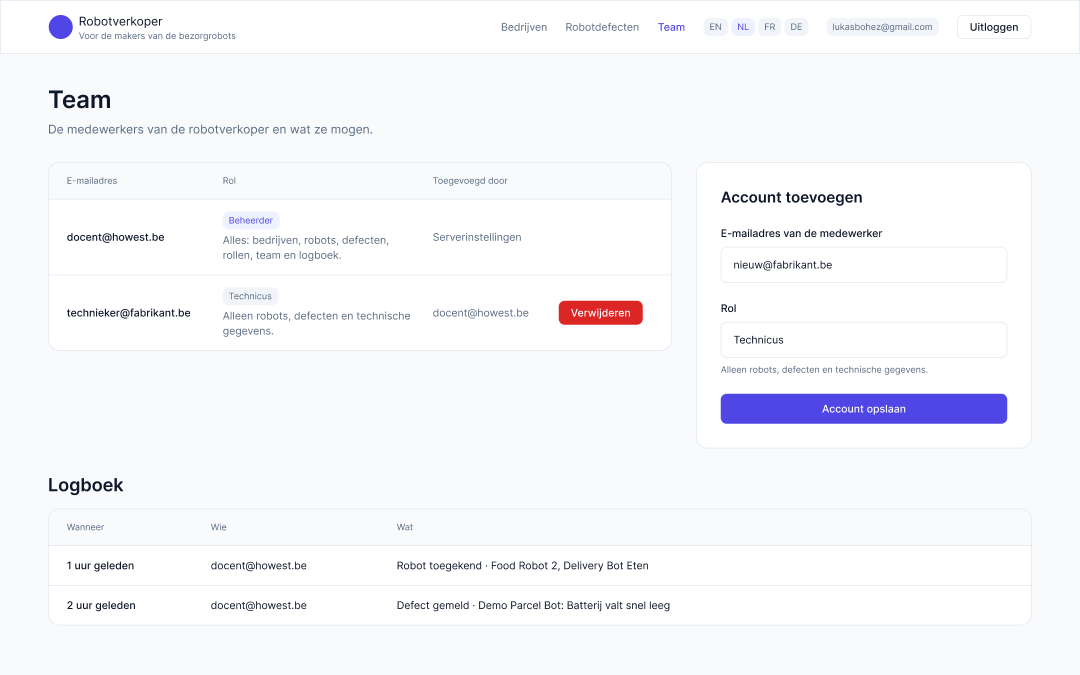
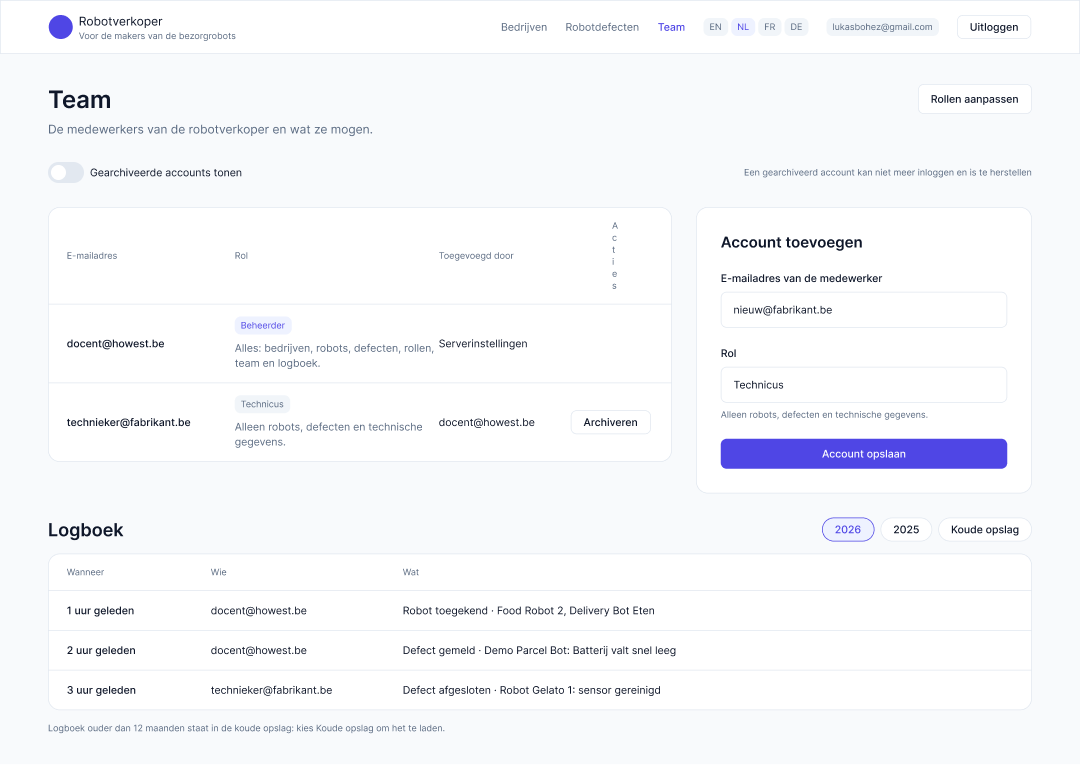
design: screens for the technician (phone) and the administrator (desktop), after the client feedback of 16/10 (#137)
New screens 11 to 23, nine popups, two flows, nine new components; screens 02, 04, 06, 07 and 09 changed
(logical robot buttons, rights as a table, archive instead of delete, filters per year). The Figma file itself is
saved by hand into Lukas/ afterwards.

diff --git a/design/README.md b/design/README.md
@@ -4,28 +4,68 @@ Het ontwerp is **eerst in Figma gemaakt, daarna pas in code**, zoals de klant vr
 
 **Van wie:** dit ontwerp is van **Lukas** en gaat enkel over zijn deel, het verkopersplatform. Er staan geen schermen van Maciej in en er wordt niets over beweerd ([wie wat doet, bovenaan de README](../../README.md#wie-doet-wat)).
 
-Het bestand heeft drie pagina's: **Inspiratie** (waar het ontwerp op leunt), **Components** (de bouwstenen met varianten) en **Design** (het designsysteem, de flow en alle schermen).
+Het bestand heeft drie pagina's: **Inspiratie** (waar het ontwerp op leunt), **Components** (de bouwstenen met varianten) en **Design** (het designsysteem, de flows en alle schermen).
 
-## De flow
+**Twee gebruikers, twee schermen.** Sinds de feedback van de klant van 16/10/2026 ([#137](https://github.com/afsd-mct/26-ratty-raccoon/issues/137), [`../../docs/klantfeedback-137.md`](../../docs/klantfeedback-137.md)) is het ontwerp opgesplitst naar wie het gebruikt:
+
+| Wie | Waar | Schermen |
+| --- | --- | --- |
+| **De beheerder** (superadmin) | Vooral op een **computer** (1440 px). Op een telefoon kan hij kijken, maar rechten aanpassen doet hij op een computer | 01 tot 16 |
+| **De technicus** | Op een **telefoon** (390 px), onderweg en bij de robot. Eigen dashboard en een eigen flow | 17 tot 23 |
+
+## De flows
 
 ![De flow: een robot aan een bedrijf geven](flow.png)
 
-Elk scherm bestaat voor **desktop (1440 px)** en voor **telefoon (390 px)**. De schermen "Bedrijven" en "Robots" bestaan ook in **donkere modus**.
+![De flow van de technicus](flow-technicus.png)
+
+![De flow van de beheerder](flow-beheerder.png)
+
+Elk scherm bestaat voor **desktop (1440 px)** of voor **telefoon (390 px)**, naargelang wie het gebruikt. De oude schermen (01 tot 10) bestaan voor allebei. De schermen "Bedrijven" en "Robots" bestaan ook in **donkere modus**. De **taalkiezer** (EN, NL, FR, DE) staat in de header, behalve op het inlogscherm: wie niet ingelogd is, ziet geen menu.
 
 ## Schermen
 
 | Nr | Scherm | Wat | Gemaakt in code |
 | --- | --- | --- | --- |
 | 01 | Inloggen | E-mail en wachtwoord, geen Google-login. **Zonder menu, taalkiezer, e-mailbadge en "Uitloggen"**: wie nog niet is ingelogd, mag die niet zien | `seller-pwa/src/views/LoginView.vue` |
-| 02 | Bedrijven | Lijst met robots en defecten per bedrijf, zonder personeel of klantgegevens. Per bedrijf twee knoppen: **Robots openen** (scherm 04) en **Rollen openen** (scherm 06, van daaruit **Bekijken als rol**, scherm 08) | `CompaniesView.vue` |
+| 02 | Bedrijven | Lijst met robots en defecten per bedrijf, zonder personeel of klantgegevens. Per bedrijf **Robots openen**, **Rollen openen** en **Archiveren** (geen verwijderen: soft delete), en een schakelaar voor gearchiveerde bedrijven | `CompaniesView.vue` |
 | 03 | Nieuw bedrijf | Naam, adres en e-mail van de eerste beheerder | `NewCompanyView.vue` |
-| 04 | Robots van een bedrijf | Statusbadge en batterij per robot, robot toekennen (één geïsoleerde etenrobot) | `CompanyRobotsView.vue` |
+| 04 | Robots van een bedrijf | Per robot een status en **logische knoppen**: Details, en wat nu past (Defect melden, of Technieker oproepen). Robot toekennen (één geïsoleerde etenrobot) | `CompanyRobotsView.vue` |
 | 05 | API-sleutel | Eén keer getoond, en vanzelf naar de robot-app gestuurd | `components/ApiKeyDialog.vue` |
-| 06 | Accounts en rollen | Rollen van een bedrijf, zoals kok en lader | `CompanyRolesView.vue` |
-| 07 | Robotdefecten | Defecten zien en een robot vervangen | `DefectsView.vue` |
+| 06 | Rollen en rechten van een bedrijf | **Een tabel**: rechten tegenover rollen (Kok, Lader, Ober), met Bekijken als rol, Kopiëren en Preset toepassen | `CompanyRolesView.vue` |
+| 07 | Robotdefecten | Alle defecten met status, lading en filters per jaar; een robot vervangen | `DefectsView.vue` |
 | 08 | Bekijken als rol | Zien wat een rol ziet, zonder iets te kunnen wijzigen | `RolePreviewView.vue` |
-| 09 | Team | Eigen medewerkers met rol Beheerder of Technicus, en het logboek | `TeamView.vue` |
+| 09 | Team | Eigen medewerkers met hun rol; **Archiveren** in plaats van verwijderen; Rollen aanpassen; logboek per jaar | `TeamView.vue` |
 | 10 | Defect melden | Een defect van een robot melden | `components/ReportDefectDialog.vue` |
+| 11 | Robot | Alles over één robot: toestand (gekanteld, batterij, klep, temperatuur, verbinding, foutcode), lading, geschiedenis, **acties** (Technieker oproepen, Vervangen met QR, Defect sluiten, QR-code tonen, Uit dienst nemen) | `RobotView.vue` |
+| 12 | Defect (beheerder) | Wat is er mis, **alle info voor de technieker**, wie komt er, locatie, verloop en **andere defecten in de buurt** | `DefectDetailView.vue` |
+| 13 | Rollen en rechten van het team | **Tabel van rechten per rol**, met extra rechten (claims), de talen van elke rol en niet-opgeslagen wijzigingen | `TeamRolesView.vue` |
+| 14 | Rol bewerken | Naam **per taal** (NL, EN, FR, DE) en extra rechten | `components/RoleEditDrawer.vue` |
+| 15 | Rollenpresets | Een rol opslaan en **kopiëren naar een ander bedrijf** | `RolePresetsView.vue` |
+| 16 | Archief en geschiedenis | Gearchiveerde accounts, rollen, robots en bedrijven **herstellen**; filters per jaar en **koude opslag** voor oud werk | `ArchiveView.vue` |
+| 17 | Technicus-dashboard | Mijn taken, dichtbij en alle open defecten, met tellers; eten aan boord staat bovenaan | `views/TechnicianDashboardView.vue` |
+| 18 | Defect (technicus) | Hetzelfde als 12, voor een telefoon, met vaste knoppen onderaan | `DefectDetailView.vue` |
+| 19 | Ter plaatse | Veiligheidscontrole (eten eruit, robot stabiel, klep, batterij) en **andere defecten in de buurt oppakken** | `OnSiteView.vue` |
+| 20 | Vervangen: oude robot scannen | **QR-code** op de kapotte robot, zodat de technicus bij de juiste robot staat | `ReplaceRobotView.vue` |
+| 21 | Vervangen: nieuwe robot scannen | **QR-code** op de nieuwe robot (serienummer en model) | `ReplaceRobotView.vue` |
+| 22 | Vervangen: wissel bevestigen | Nieuwe robot neemt naam, bedrijf en een nieuwe sleutel over | `ReplaceRobotView.vue` |
+| 23 | Wissel gelukt | Sleutel gestuurd, defect afgesloten | `ReplaceRobotView.vue` |
+
+### De popups
+
+Elke popup is een vrij frame met een gedimde pagina erachter, zoals 05 en 10. Op een telefoon zijn het sheets die van onderen komen.
+
+| Nr | Popup | Wanneer |
+| --- | --- | --- |
+| P1 | Technieker oproepen | Vanuit 04, 07, 11 en 12. Eén knop: **het kanaal maakt niet uit** (de technieker krijgt een melding met alle info) |
+| P2 | Account archiveren | Vanuit 09. Ook voor een rol, robot of bedrijf. Het is **soft delete**: bewaard, niet verwijderd |
+| P3 | Herstellen uit het archief | Vanuit 16 |
+| P4 | Defect sluiten | Hoe is het opgelost en wat deed de technicus |
+| P5 | Rol kopiëren naar een bedrijf | Vanuit 06 en 15 |
+| P6 | QR-code van een robot | Vanuit 11, om op de robot te plakken |
+| P7 | Meer acties (telefoon) | Vanuit 18: vervangen, sluiten, hulp vragen, route openen |
+| P8 | Hulp vragen (telefoon) | Een collega of de beheerder krijgt een melding |
+| P9 | Taal kiezen (telefoon) | EN, NL, FR en DE |
 
 ### Desktop
 
@@ -33,9 +73,12 @@ Elk scherm bestaat voor **desktop (1440 px)** en voor **telefoon (390 px)**. De 
 | --- | --- |
 | ![01 Inloggen](01-inloggen-desktop.png) | ![02 Bedrijven](02-bedrijven-desktop.png) |
 | ![03 Nieuw bedrijf](03-nieuw-bedrijf-desktop.png) | ![04 Robots van een bedrijf](04-robots-desktop.png) |
-| ![05 API-sleutel](05-api-sleutel-desktop.png) | ![06 Accounts en rollen](06-accounts-en-rollen-desktop.png) |
+| ![05 API-sleutel](05-api-sleutel-desktop.png) | ![06 Rollen en rechten van een bedrijf](06-accounts-en-rollen-desktop.png) |
 | ![07 Robotdefecten](07-robotdefecten-desktop.png) | ![08 Bekijken als rol](08-bekijken-als-rol-desktop.png) |
 | ![09 Team](09-team-desktop.png) | ![10 Defect melden](10-defect-melden-desktop.png) |
+| ![11 Robot](11-robot-desktop.png) | ![12 Defect](12-defect-desktop.png) |
+| ![13 Rollen en rechten van het team](13-rollen-en-rechten-team-desktop.png) | ![14 Rol bewerken](14-rol-bewerken-desktop.png) |
+| ![15 Rollenpresets](15-rollenpresets-desktop.png) | ![16 Archief en geschiedenis](16-archief-desktop.png) |
 
 ### Telefoon
 
@@ -47,11 +90,38 @@ Elk scherm bestaat voor **desktop (1440 px)** en voor **telefoon (390 px)**. De 
 <img src="05-api-sleutel-telefoon.png" width="190" alt="05 API-sleutel">
 </p>
 <p>
-<img src="06-accounts-en-rollen-telefoon.png" width="190" alt="06 Accounts en rollen">
+<img src="06-accounts-en-rollen-telefoon.png" width="190" alt="06 Rollen">
 <img src="07-robotdefecten-telefoon.png" width="190" alt="07 Robotdefecten">
 <img src="08-bekijken-als-rol-telefoon.png" width="190" alt="08 Bekijken als rol">
 <img src="09-team-telefoon.png" width="190" alt="09 Team">
 <img src="10-defect-melden-telefoon.png" width="190" alt="10 Defect melden">
+</p>
+
+### De technicus op zijn telefoon
+
+<p>
+<img src="17-technicus-dashboard-telefoon.png" width="190" alt="17 Technicus-dashboard">
+<img src="18-defect-telefoon.png" width="190" alt="18 Defect">
+<img src="19-ter-plaatse-telefoon.png" width="190" alt="19 Ter plaatse">
+<img src="20-vervangen-oude-robot-telefoon.png" width="190" alt="20 Oude robot scannen">
+</p>
+<p>
+<img src="21-vervangen-nieuwe-robot-telefoon.png" width="190" alt="21 Nieuwe robot scannen">
+<img src="22-vervangen-bevestigen-telefoon.png" width="190" alt="22 Wissel bevestigen">
+<img src="23-wissel-gelukt-telefoon.png" width="190" alt="23 Wissel gelukt">
+</p>
+
+### Popups
+
+| | | |
+| --- | --- | --- |
+| ![P1 Technieker oproepen](popup-1-technieker-oproepen.png) | ![P2 Account archiveren](popup-2-account-archiveren.png) | ![P3 Herstellen](popup-3-herstellen.png) |
+| ![P4 Defect sluiten](popup-4-defect-sluiten.png) | ![P5 Rol kopiëren](popup-5-rol-kopieren.png) | ![P6 QR-code](popup-6-qr-code.png) |
+
+<p>
+<img src="popup-7-meer-acties-telefoon.png" width="190" alt="P7 Meer acties">
+<img src="popup-8-hulp-vragen-telefoon.png" width="190" alt="P8 Hulp vragen">
+<img src="popup-9-taal-kiezen-telefoon.png" width="190" alt="P9 Taal kiezen">
 </p>
 
 ### Donkere modus
@@ -70,12 +140,13 @@ De donkere schermen zijn dezelfde schermen met de modus **Dark** van de Semantic
 - **8px-grid.** Alle paddings, gaps en maten zijn veelvouden van 8 (4 als halve stap).
 - **60-30-10.** 60% rustige neutrale vlakken, 30% structuur (tekst, randen), 10% accent: de primaire actie valt altijd op.
 - **Contrast (WCAG 2.1 AA).** Elke tekstkleur is gecontroleerd op zijn achtergrond, in Light en in Dark (de tabel staat in het designsysteem). Tekst op een zachte achtergrond heeft eigen tokens (`*-text`) die in de donkere modus lichter zijn.
-- **Tekststijlen.** Heading/Page 32, Heading/Section 24, Heading/Card 20, Body/Default 16, Body/Small 14, Label/Default 14 en Caption 12. Elke tekst gebruikt een stijl.
-- **Auto layout** overal, behalve in de vier schermen met een dialoog over een gedimde pagina (05 en 10), die bewust vrije frames zijn.
+- **Tekststijlen.** Heading/Page 32, Heading/Section 24, Heading/Card 20, Body/Default 16 (en Body/Medium en Body/Strong), Body/Small 14, Label/Default 14, Caption 12 (en Caption/Medium). Elke tekst gebruikt een stijl.
+- **Auto layout** overal, behalve in de schermen met een popup over een gedimde pagina (05, 10, 14 en P1 tot P9), die bewust vrije frames zijn.
+- **Iconen** zijn SVG's van één set (Lucide-vormen, 24 px, lijn van 2 px) in de kleur van de tekst ernaast. Een icoon staat nooit alleen: er staat altijd een woord bij.
 
 ## De componenten
 
-Elk scherm gebruikt **instances** van deze componenten (meer dan 190 in totaal), niet losse nagemaakte vormen.
+Elk scherm gebruikt **instances** van deze componenten (meer dan 780 in totaal), niet losse nagemaakte vormen.
 
 ![Header](component-header.png)
 
@@ -85,13 +156,22 @@ Elk scherm gebruikt **instances** van deze componenten (meer dan 190 in totaal),
 | **Badge** | `tone` success, danger, warning, primary, neutral | ![Badge](component-badge.png) |
 | **Field** | `state` default, error; `hint` yes, no | ![Field](component-field.png) |
 | **Alert** | `tone` primary, success, warning, danger | ![Alert](component-alert.png) |
-| **Header** | `device` desktop of mobile, `active` het menu-item. Met een **taalkiezer EN, NL, FR, DE** (NL is de taal van het ontwerp): de app ondersteunt al die talen. Op de telefoon staat er een knop "NL" naast "Menu". Zonder ingelogd te zijn zie je geen van beide | zie hierboven |
+| **Header** | `device` desktop of mobile, `active` het menu-item. Met een **taalkiezer EN, NL, FR, DE** (NL is de taal van het ontwerp). Op de telefoon staat er een knop "NL" naast "Menu" | zie hierboven |
 | **RoleRow** | `locked` yes, no | ![RoleRow](component-rolerow.png) |
 | **CompanyCard** | `defect` none, some. Met twee knoppen: Robots openen en Rollen openen | ![CompanyCard](component-companycard.png) |
+| **Chip** | `state` default, active: een filter (status, jaar) | ![Chip](component-chip.png) |
+| **Toggle** | `state` off, on: een schakelaar met een tekst (gearchiveerd tonen) | ![Toggle](component-toggle.png) |
+| **Checkbox** | `state` unchecked, checked, locked: een cel van de tabel met rechten | ![Checkbox](component-checkbox.png) |
+| **StatTile** | `tone` neutral, danger, warning, success: een getal met een label | ![StatTile](component-stattile.png) |
+| **InfoTile** | `tone` ok, warning, danger; `icon` (gekanteld, batterij, klep, temperatuur, verbinding, foutcode, wiel) | ![InfoTile](component-infotile.png) |
+| **TaskCard** | `state` open, enroute, onsite; `cargo` yes, no: een defect in het dashboard van de technicus | ![TaskCard](component-taskcard.png) |
+| **BottomNav** | `active` taken, defecten, scan, meer: het menu van de technicus op een telefoon | ![BottomNav](component-bottomnav.png) |
+| **Stepper** | `step` 1, 2, 3: de stappen van het vervangen met QR | ![Stepper](component-stepper.png) |
+| **Dialog** | `device` desktop of phone; `tone` default of danger: een bevestiging als popup of sheet | ![Dialog](component-dialog.png) |
 
 ## Inspiratie
 
-Het ontwerp leunt op de feedback van de klant, op vlootbeheer-dashboards en op de bezorgrobots van Uber Eats. Per wens van de klant staat in [`../../docs/klantfeedback-129.md`](../../docs/klantfeedback-129.md) wat er gedaan is.
+Het ontwerp leunt op de feedback van de klant, op vlootbeheer-dashboards en op de bezorgrobots van Uber Eats. Per wens van de klant staat in [`../../docs/klantfeedback-129.md`](../../docs/klantfeedback-129.md) en [`../../docs/klantfeedback-137.md`](../../docs/klantfeedback-137.md) wat er gedaan is.
 
 | | |
 | --- | --- |
